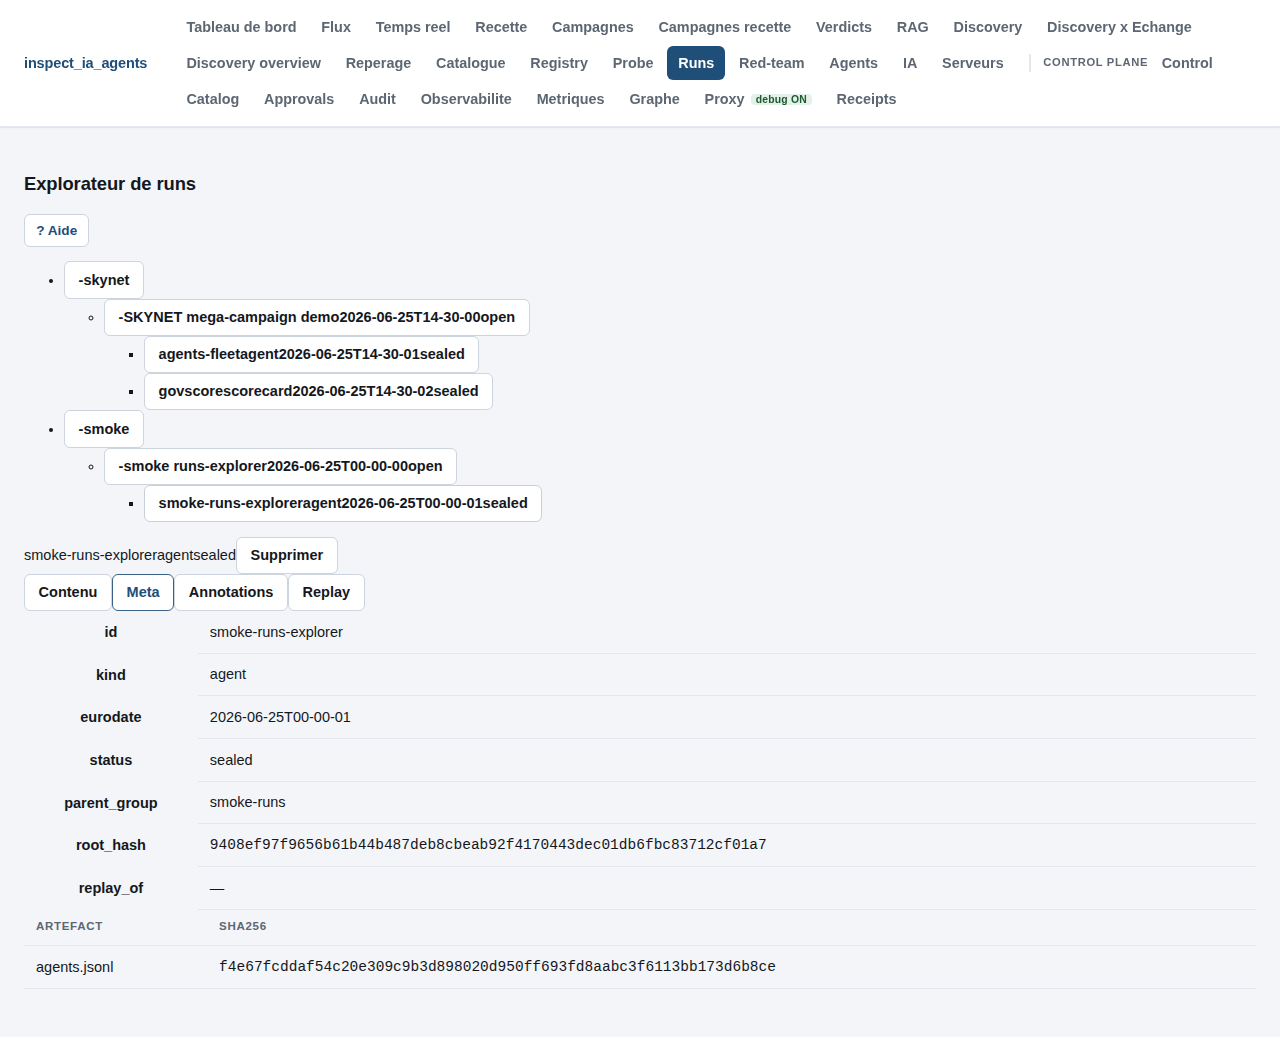
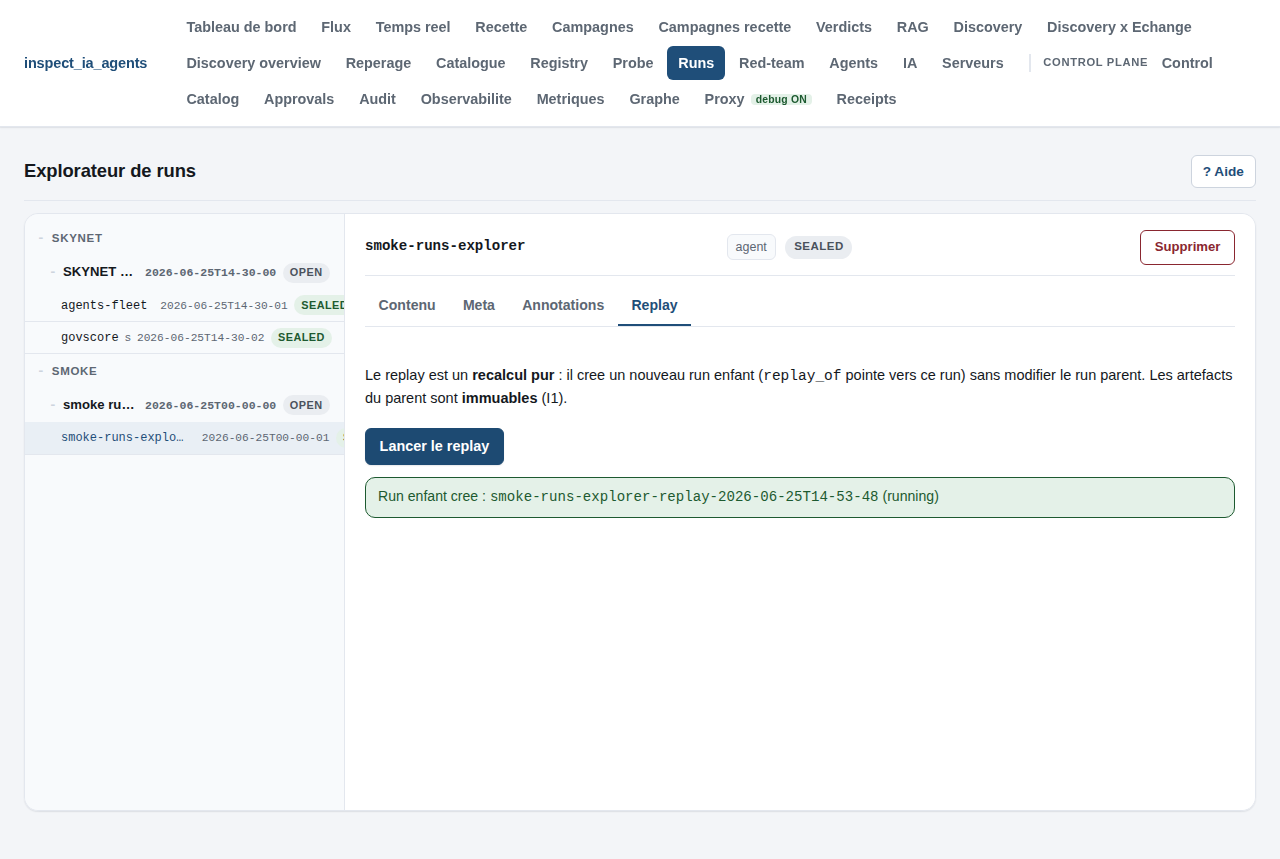
fix(console): replay response is a child-run handle, not RunDetail (R16 contract drift) + live smoke drive

diff --git a/console/src/pages/runs/RunDetailView.tsx b/console/src/pages/runs/RunDetailView.tsx
@@ -9,7 +9,7 @@
  */
 
 import { lazy, Suspense } from "react";
-import type { RunDetail } from "../../api/client";
+import type { RunDetail, ReplayResult } from "../../api/client";
 
 const MonacoJsonViewer = lazy(() => import("../../components/MonacoJsonViewer"));
 
@@ -50,7 +50,7 @@ export interface RunDetailViewProps {
   onDeleteCancel: () => void;
 
   // Replay state
-  replayResult: RunDetail | null;
+  replayResult: ReplayResult | null;
   replayError: string | null;
   replayBusy: boolean;
   onReplay: () => void;
@@ -379,8 +379,8 @@ export default function RunDetailView({
           )}
           {replayResult && (
             <div className="runs-replay-result" data-testid="replay-result">
-              Run enfant cree : <code>{replayResult.meta.id}</code> (
-              {replayResult.meta.status})
+              Run enfant cree : <code>{replayResult.child_run_id}</code> (
+              {replayResult.status})
             </div>
           )}
         </div>

diff --git a/console/src/pages/runs/index.tsx b/console/src/pages/runs/index.tsx
@@ -19,7 +19,7 @@ import {
   deleteRun,
   replayRun,
 } from "../../api/client";
-import type { RunTree, RunDetail } from "../../api/client";
+import type { RunTree, RunDetail, ReplayResult } from "../../api/client";
 import RunTreeComponent from "./RunTree";
 import PageHelp from "../../components/help/PageHelp";
 import RunDetailView from "./RunDetailView";
@@ -55,7 +55,7 @@ export default function RunsExplorer(): JSX.Element {
   const [deleteError, setDeleteError] = useState<string | null>(null);
 
   // Replay state
-  const [replayResult, setReplayResult] = useState<RunDetail | null>(null);
+  const [replayResult, setReplayResult] = useState<ReplayResult | null>(null);
   const [replayError, setReplayError] = useState<string | null>(null);
   const [replayBusy, setReplayBusy] = useState(false);
 

diff --git a/console/src/pages/runs/index.test.tsx b/console/src/pages/runs/index.test.tsx
@@ -132,10 +132,14 @@ describe("RunsExplorer", () => {
   });
 
   it("calls replayRun when Replay button is clicked", async () => {
+    // Real /results/{id}/replay response shape (verified live, 201):
+    // { child_run_id, replay_of, status, kind } -- NOT a full RunDetail.
     const replayChild = {
-      ...detailFixture,
-      meta: { ...detailFixture.meta, id: "agents-fleet-replay", replay_of: "agents-fleet" },
-    } as RunDetail;
+      child_run_id: "agents-fleet-replay",
+      replay_of: "agents-fleet",
+      status: "running",
+      kind: "agent",
+    };
     vi.mocked(fetchRunTree).mockResolvedValue(treeFixture as RunTree);
     vi.mocked(fetchRun).mockResolvedValue(detailFixture as RunDetail);
     vi.mocked(fetchRunArtifact).mockResolvedValue('{}');

diff --git a/console/src/api/client.ts b/console/src/api/client.ts
@@ -1805,8 +1805,17 @@ export function deleteRun(id: string): Promise<void> {
   );
 }
 
-export function replayRun(id: string): Promise<RunDetail> {
-  return request<RunDetail>(`/results/${encodeURIComponent(id)}/replay`, {
+/** POST /results/{id}/replay returns the spawned child run handle (NOT a full
+ *  RunDetail): the registry records the child and links it via replay_of. */
+export interface ReplayResult {
+  child_run_id: string;
+  replay_of: string;
+  status: string;
+  kind: string;
+}
+
+export function replayRun(id: string): Promise<ReplayResult> {
+  return request<ReplayResult>(`/results/${encodeURIComponent(id)}/replay`, {
     method: "POST",
     body: JSON.stringify({}),
   });

diff --git a/scripts/smoke_console.py b/scripts/smoke_console.py
@@ -742,8 +742,19 @@ def _verify_runs_explorer(page: Page, console: str, api: str) -> None:
         bool(root_hash.inner_text().strip()),
         "runs-explorer: Meta root_hash is empty (seal not surfaced in the UI)",
     )
+    # Replay tab: the button spawns a child run (replay_of) -- assert the real
+    # /results/{id}/replay response shape ({child_run_id,...}) renders, NOT a
+    # RunDetail (the contract drift caught + fixed in PDCA cycle 2).
+    page.get_by_test_id("runs-tab-replay").click()
+    page.get_by_test_id("replay-btn").click()
+    child = page.get_by_test_id("replay-result")
+    child.wait_for(timeout=UI_TIMEOUT_MS)
+    _expect(
+        "replay" in child.inner_text().lower(),
+        "runs-explorer: Replay produced no child-run result in the UI",
+    )
     _shot(page, "runs-explorer")
-    print("[runs] /runs tree + Monaco artifact + Meta root_hash OK")
+    print("[runs] /runs tree + Monaco + Meta root_hash + Replay child-run OK")
 
 
 def run_smoke(console: str, api: str, server_port: int) -> None:
